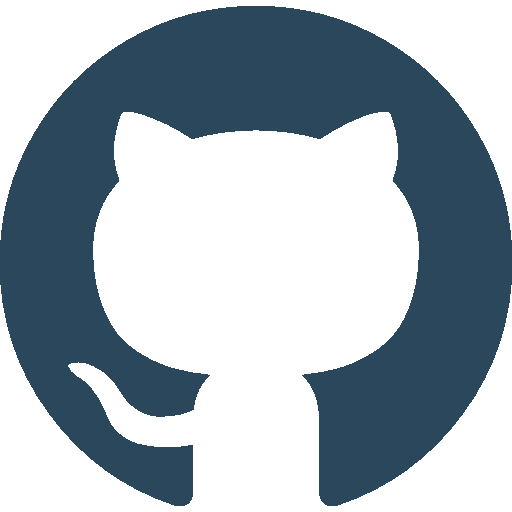
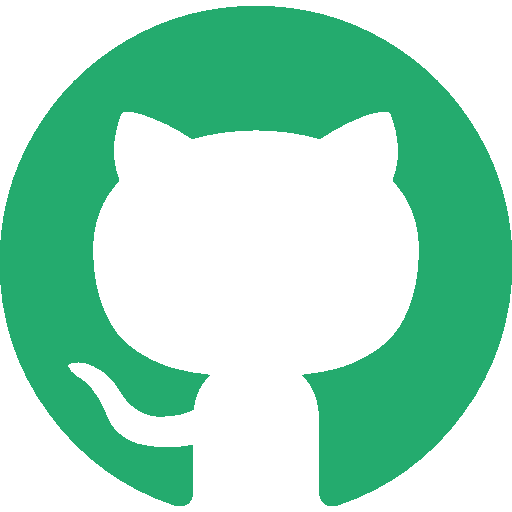
new color scheme

diff --git a/style.css b/style.css
@@ -10,7 +10,7 @@
 
 body {
     font-family: "Poppins", sans-serif;
-    background: #e9e6e1;
+    background: #000000;
 }
 
 html{
@@ -18,7 +18,7 @@ html{
 }
 
 p{
-    color: #2b475c;
+    color: #ffffff;
 }
 
 /* TRANSITION */
@@ -46,7 +46,7 @@ nav{
 }
 
 a {
-    color: #2b475c;
+    color: #ffffff;
     text-decoration: none;
     font-size: 18px;
     position: relative;
@@ -56,7 +56,7 @@ a::after{
     content: '';
     width: 0;
     height: 3px;
-    background: #5e8a75;
+    background: #24ab6e;
     position: absolute;
     left: 0;
     bottom: 0px;
@@ -94,7 +94,7 @@ a:hover::after{
 .phone-icon span {
     width: 100%;
     height: 2px;
-    background-color: #5e8a75;
+    background-color: #24ab6e;
     transition: all 0.3 ease-in-out;
 }
 
@@ -102,7 +102,7 @@ a:hover::after{
     position: absolute;
     top: 100%;
     right: 0;
-    background-color: #e9e6e1;
+    background-color: #000000;
     width: fit-content;
     max-height: 0;
     overflow: hidden;
@@ -114,7 +114,7 @@ a:hover::after{
     padding: 10px;
     text-align: center;
     font-size: 1.5rem;
-    color: #2b475c;
+    color: #ffffff;
     text-decoration: none;
     transition: all 0.3 ease-in-out;
 }
@@ -181,7 +181,9 @@ section {
     text-align: center;
     align-self: center;
 }
-
+.name_title {
+    color: #24ab6e;
+}
 .section_text p {
     font-weight: 600;
 }
@@ -222,7 +224,7 @@ section {
 }
 
 .btn-1 {
-    color: #2b475c;
+    color: #24ab6e;
     cursor: pointer;
 }
 
@@ -230,11 +232,11 @@ section {
 
 #about{
     padding: 80px 0;
-    color: #2b475c;
+    color: #ffffff;
     padding-bottom: 4rem;
 }
 .about-col-2 h1 {
-    color: #2b475c;
+    color: #ffffff;
     font-size: 35px;
 }
 .row{
@@ -267,7 +269,7 @@ section {
 .sub-title{
     font-size: 60px;
     font-weight: 600;
-    color: #5e8a75;
+    color: #24ab6e;
 }
 .tab-titles{
     display: flex;
@@ -284,7 +286,7 @@ section {
     content: '';
     width: 0;
     height: 3px;
-    background: #5e8a75;
+    background: #24ab6e;
     position: absolute;
     left: 0;
     bottom: -8px;
@@ -304,7 +306,7 @@ section {
 }
 
 .tab-contents ul li span{
-    color: #5e8a75;
+    color: #24ab6e;
     font-size: 16px;
 }
 
@@ -316,21 +318,23 @@ section {
 .details-container {
     padding: 20px;
     width: calc(48% - 2.5rem);
-    background-color: #e9e6e1;
+    background-color: #ffffff;
     margin-bottom: 20px;
-    border: #2b475c 0.1rem solid;
+    border: #24ab6e 0.1rem solid;
     text-align: center;
     box-sizing: border-box;
+    border-radius: 10px;
+
 }
 
 #projects {
     position: relative;
     margin-top: 5.5rem;
-    color: #2b475c;
+    color: #24ab6e ;
 }
 
 .project-sub-title {
-    color: #2b475c;
+    color: #000000;
     font-weight: 600;
     font-size: 1.75rem;
     margin-bottom: 2rem;
@@ -367,6 +371,7 @@ article {
     margin-top: 5rem;
     padding: 1rem;
     background-color: #fff;
+    border: #24ab6e 0.1rem solid;
     border-radius: 10px;
     text-align: center;
     max-width: 600px;
@@ -377,7 +382,7 @@ article {
 }
 
 #contact h2 {
-    color: #2b475c;
+    color: #000000;
     font-size: 2rem;
     margin-bottom: 1.5rem;
 }
@@ -389,7 +394,7 @@ article {
 
 #contact label {
     font-weight: 500;
-    color: #2b475c;
+    color: #000000;
     font-size: 1rem;
 }
 
@@ -398,7 +403,7 @@ article {
     width: 100%;
     padding: 8px;
     box-sizing: border-box;
-    border: 1px solid #5e8a75;
+    border: 1px solid #24ab6e;
     border-radius: 5px;
     resize: none; /* Disable resizing */
     display: block; /* Ensure the textarea is a block-level element */
@@ -406,7 +411,7 @@ article {
 }
 
 #contact button {
-    background-color: #5e8a75;
+    background-color: #24ab6e;
     color: #fff;
     cursor: pointer;
     font-weight: 600;
@@ -420,12 +425,12 @@ article {
 }
 
 #msg{
-    color: #5e8a75;
+    color: #24ab6e;
     display: block;
 }
 
 footer {
-    background-color: #e9e6e1;
+    background-color: #000000;
     color: #fff;
     text-align: center;
     padding: 1rem;

diff --git a/mediaqueries.css b/mediaqueries.css
@@ -1,5 +1,4 @@
 /* mediaqueries.css */
-
 @media screen and (max-width: 1400px) {
     #profile {
         height: 83vh;
@@ -57,7 +56,56 @@
     }
 }
 
-@media screen and (max-width: 600px) {
+@media screen and (max-width: 800px) {
+    
+    #profile {
+        height: 83vh;
+        margin-bottom: 0;
+    }
+    article {
+        font-size: 1rem;
+    }
+    footer nav {
+        height: fit-content;
+        margin-bottom: 2rem;
+    }
+    .about-containers,
+    .contact-info-upper-container,
+    .btn-container {
+        flex-wrap: wrap;
+    }
+    .contact-info-container {
+        margin: 0;
+    }
+    .contact-info-container p,
+    .nav-links li a {
+        font-size: 1rem;
+    }
+    .experience-sub-title {
+        font-size: 1.25rem;
+    }
+    .logo {
+        font-size: 1.5rem;
+    }
+    .nav-links {
+        flex-direction: column;
+        gap: 0.5rem;
+        text-align: center;
+    }
+    .section__pic-container {
+        width: auto;
+        height: 46vw;
+        justify-content: center;
+    }
+    .section__text__p2 {
+        font-size: 1.25rem;
+    }
+    .title {
+        font-size: 2rem;
+    }
+    .text-container {
+        text-align: justify;
+    }
     #about,
     #profile {
         margin-bottom: 2rem; /* Adjust the margin to bring the sections closer */
@@ -94,28 +142,7 @@
 
     .tab-links:last-child {
         margin-right: 0; /* Remove margin for the last tab-link to make sure it is centered */
-    }
-    #profile {
-        margin-bottom: 2rem;
-        text-align: center; /* Center the content horizontally */
-    }
-    .section_text {
-        margin-top: -2rem; /* Adjusts the margin to move the section text upward */
-    }
-
-    .section_pic-container {
-        width: 80%; 
-        max-width: 400px; /* Set a maximum width */
-        margin: 0 auto; /* Center the container horizontally */
-    }
-
-    .section_pic-container img {
-        width: 100%; /* Make the image fill its container */
-        height: 300px;
-        border-radius: 50%;
-        display: block; 
-        margin: 0 auto; /* Center the image horizontally */
-    }
+    } 
     .contact-info-container {
         margin: 0;
     }
@@ -134,9 +161,6 @@
         gap: 0.5rem;
         text-align: center;
     }
-    .section__text__p2 {
-        font-size: 1.25rem;
-    }
     .title {
         font-size: 2rem;
     }
@@ -146,5 +170,8 @@
     .details-container {
         width: 100%;
         margin-bottom: 20px; /* Adjusts the margin for spacing between stacked projects */
+    }
+    #footer {
+        text-align: justify;
     }
 }

diff --git a/index.html b/index.html
@@ -60,7 +60,7 @@
             <div class="container">
                 <div class="row">
                     <div class="about-col-2">
-                        <h1> About Me</h1>
+                        <h1 class="nametitle">About Me</h1>
                         <p>My name is Nayan Bisessar, a third-year Computer Science major actively seeking an intership 
                             opportunity for Summer 2024. My primary interest lies in full stack development. As a dedicated learner, 
                              I am excited about exploring new challenges and expanding my knowledge base. I am eagerly anticipating the
